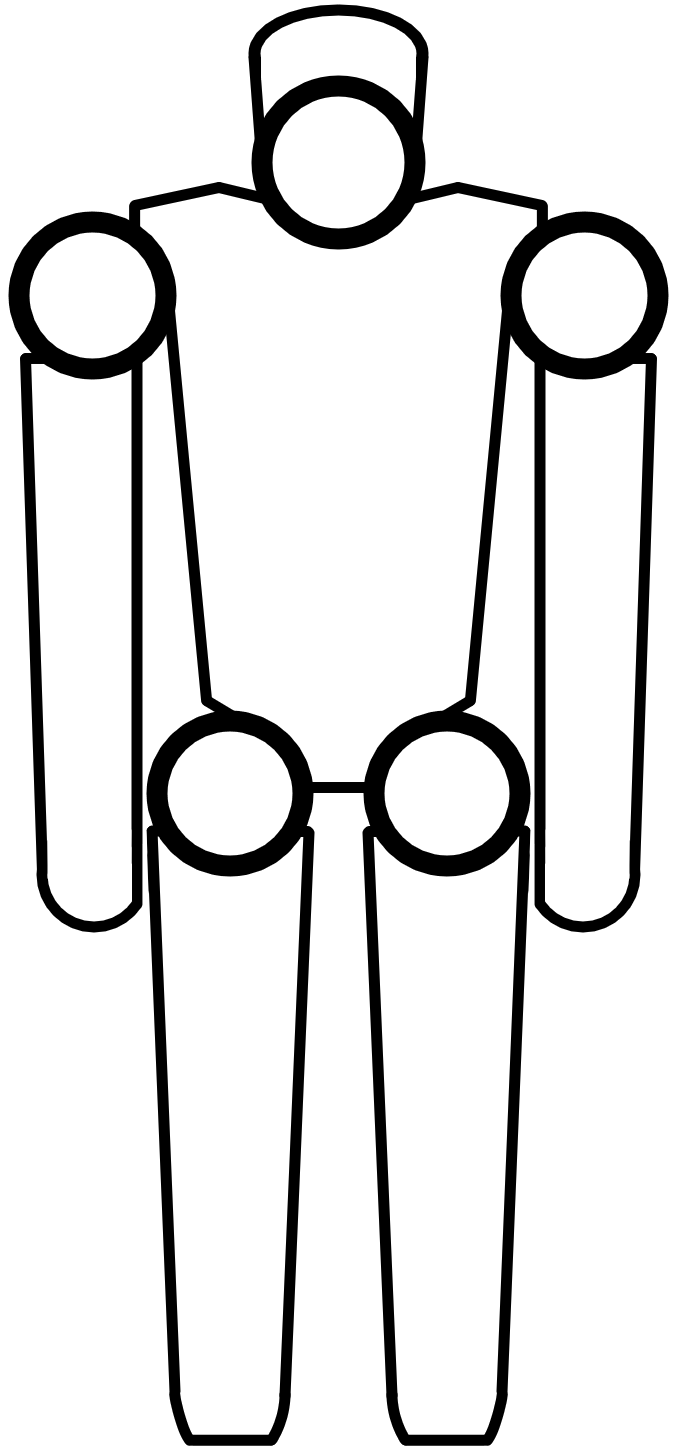
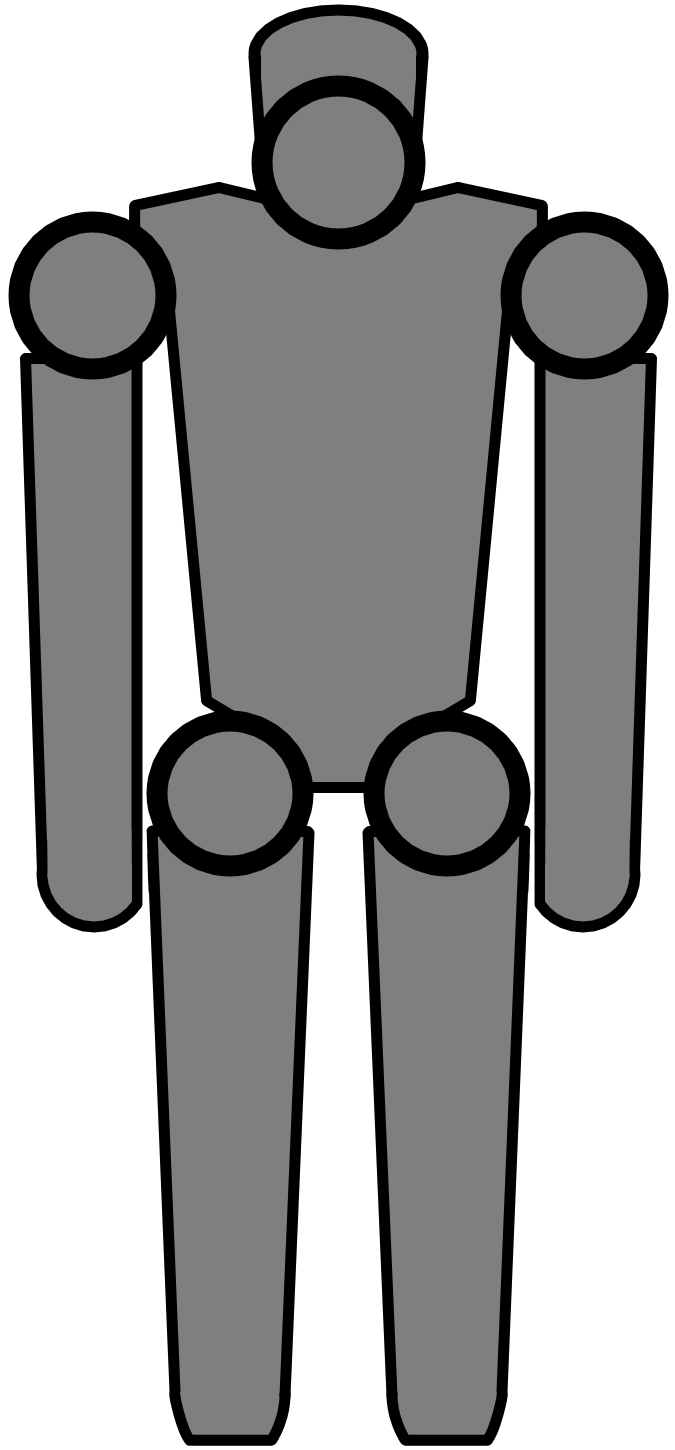
Finished menu styling

diff --git a/index.html b/index.html
@@ -19,14 +19,14 @@
             #overlay { pointer-events:none; display:flex; flex:1; position:fixed; inset:0; width:auto; height:auto; flex-direction:column; justify-content:end; }
             #menuHolder { display:flex; flex:1; width:65dvw; height:auto; justify-content:center; align-items:center; padding-top:1dvh; padding-bottom:1dvh; padding-left:1dvw; padding-right:1dvw }
             #menuBox { container-type:size; overflow:hidden; pointer-events:auto; display:flex; width:calc(var(--boxSize) * 4 / 3); height:var(--boxSize);
-                background-color:rgba(100,100,100,0.9); border-radius:5%; padding:2dvh; transform:scale(100%); transition:transform 0.2s ease-out }
+                background-color:rgba(100,100,100,0.8); border:solid 1dvh black; border-radius:5dvh; padding:2dvh; transform:scale(100%); transition:transform 0.2s ease-out }
             #menuBox.hidden { transform:scale(0%); }
 
             #pivotSelect { position:relative; }
             #dollImg { height:100%; }
             #pivotSelect input { appearance:none; margin:0; position:absolute; cursor:pointer; width:15cqh; height:15cqh; 
                 border-radius:100%; background-color:white; border:solid 1.5cqh black; -webkit-tap-highlight-color:transparent;
-                background-repeat:no-repeat; background-position:center; background-image:radial-gradient(black 25%, white 30%);
+                background-repeat:no-repeat; background-position:center; background-image:radial-gradient(black 25%, white 27%);
                 background-size:0% 0%; transform:translate(-50%, -50%); transition:transform 0.5s ease, background-size 0.35s cubic-bezier(0.05, 0.9, 0.2, 1); }
             #pivotSelect input:active { transform:translate(-50%, -50%) scale(90%, 90%); transition:transform 0.5s ease }
             #pivotSelect input:checked { background-size:100% 100%; }
@@ -38,28 +38,28 @@
             #torso { left:50%; top:33%; }
             
             #rightHolder { container-type:size; position:relative; display:flex; flex:1; justify-content:center; align-items:center; flex-direction:column; }
-            #arrowGradient { position:absolute; left:50%; top:50%; transform:translate(-50%, -50%); width:95cqw; height:95cqw; background-color:rgba(50,50,50,0.8); border-radius:100% }
+            #arrowBackground { position:absolute; left:50%; top:50%; transform:translate(-50%, -50%); width:95cqw; height:95cqw; background-color:rgba(0,0,0,0.5); border:solid 2cqw black; border-radius:100% }
             #arrowHolder { container-type:size; position:relative; width:73cqw; height:73cqw; }
 
             .arrowButton { position:absolute; cursor:pointer; top:50%; left:50%; width:34cqh; height:34cqh; -webkit-tap-highlight-color:transparent;
                 --scale:1; --scalex:1; transform:translate(-50%, -50%) rotate(var(--rotation)) scale(calc(var(--scale) * var(--scalex)), var(--scale)); transition:transform 0.1s ease}
             .arrowButton:active { --scale:0.9 }
-            #up { --rotation:0; top:5%; }
-            #down { --rotation:180deg; top:95%; }
-            #left { --rotation:270deg; left:5%; }
-            #right { --rotation:90deg; left:95%; }
-            #cw1 { --rotation:0; left:15%; top:15%; }
-            #cw2 { --rotation:180deg; left:85%; top:85%; }
-            #ccw1 { --scalex:-100%; --rotation:0; left:85%; top:15%; }
-            #ccw2 { --scalex:-100%; --rotation:180deg; left:15%; top:85%; }
+            #up { --rotation:0; top:7%; }
+            #down { --rotation:180deg; top:93%; }
+            #left { --rotation:270deg; left:7%; }
+            #right { --rotation:90deg; left:93%; }
+            #cw1 { --rotation:0; left:17%; top:17%; }
+            #cw2 { --rotation:180deg; left:83%; top:83%; }
+            #ccw1 { --scalex:-100%; --rotation:0; left:83%; top:17%; }
+            #ccw2 { --scalex:-100%; --rotation:180deg; left:17%; top:83%; }
 
-            #colorPicker { position:absolute; top:50%; left:50%; width:45cqh; height:45cqh; cursor:pointer;
-                appearance:none; -webkit-appearance:none; -webkit-tap-highlight-color:transparent; padding:0; border:solid 4cqh white; border-radius:100%; background:none; 
+            #colorPicker { position:absolute; top:50%; left:50%; width:40cqh; height:40cqh; cursor:pointer;
+                appearance:none; -webkit-appearance:none; -webkit-tap-highlight-color:transparent; padding:0; border:solid 3cqh black; border-radius:100%; background:none; 
                 transform:translate(-50%, -50%) scale(100%); transition:transform 0.5s ease; }
             #colorPicker:active { transform:translate(-50%, -50%) scale(90%); }
             #colorPicker::-webkit-color-swatch-wrapper { padding:0; }
-            #colorPicker::-webkit-color-swatch { border:none; }
-            #colorPicker::-moz-color-swatch { border:none; }
+            #colorPicker::-webkit-color-swatch { border:solid 3cqh white; border-radius:100%; }
+            #colorPicker::-moz-color-swatch { border:solid 3cqh white; border-radius:100%; }
 
             #touchButtonHolder { display:flex; width:auto; align-items:end; justify-content:space-between; }
             .touchButton { container-type:inline-size; touch-action:none; pointer-events:auto; user-select:none; align-items:center; justify-content:center;
@@ -109,7 +109,7 @@
                             <input type="radio" name="pivot" id="torso" value="torso" oncontextmenu="return false;">
                         </div>
                         <div id="rightHolder">
-                            <div id="arrowGradient"></div>
+                            <div id="arrowBackground"></div>
                             <div id="arrowHolder">
                                 <input id="colorPicker" type="color" value="#ff00ff">
                                 <img class="arrowButton" id="up" src="./assets/arrowaway.png" draggable="false" oncontextmenu="return false;">
